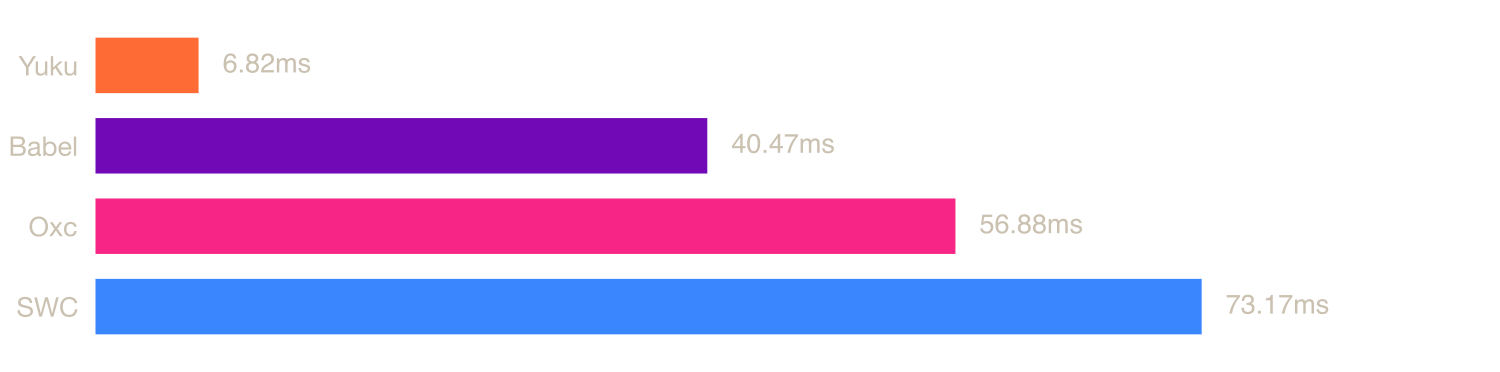
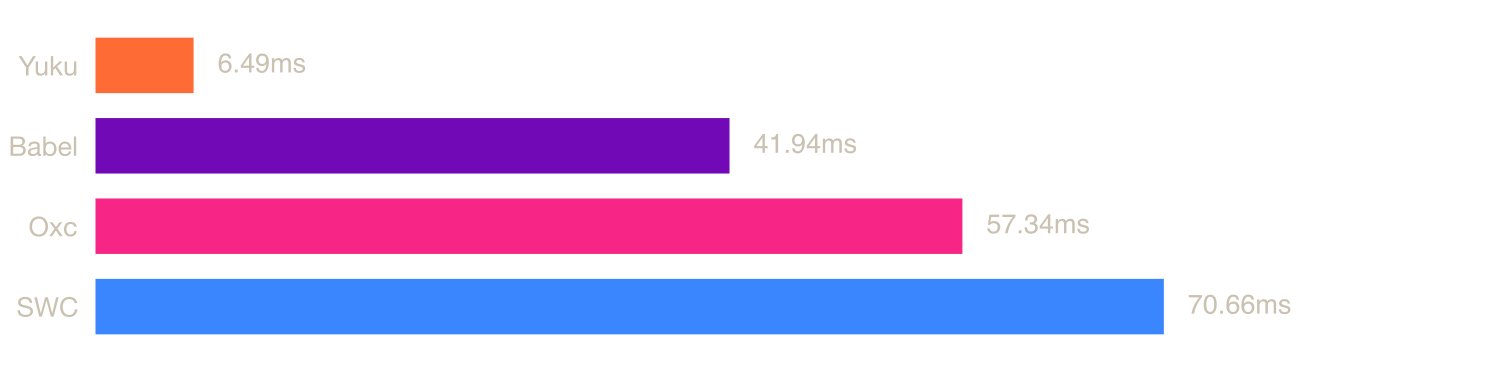
update parsers

diff --git a/scripts/generate-readme.ts b/scripts/generate-readme.ts
@@ -20,12 +20,6 @@ const PARSERS = {
       "A JavaScript compiler and parser used by the Babel toolchain.",
     url: "https://github.com/babel/babel/tree/main/packages/babel-parser",
   },
-  meriyah: {
-    name: "Meriyah",
-    description:
-      "A 100% compliant, self-hosted JavaScript parser with a high focus on both performance and stability.",
-    url: "https://github.com/meriyah/meriyah",
-  },
   oxc: {
     name: "Oxc",
     description:
@@ -49,7 +43,6 @@ const PARSERS = {
 const CHART_COLORS: Record<string, string> = {
   acorn: "#4CC9F0",
   babel: "#7209B7",
-  meriyah: "#06D6A0",
   oxc: "#F72585",
   swc: "#3A86FF",
   yuku: "#FF6B35",
@@ -58,7 +51,6 @@ const CHART_COLORS: Record<string, string> = {
 const NAME_TO_KEY: Record<string, string> = {
   Acorn: "acorn",
   Babel: "babel",
-  Meriyah: "meriyah",
   Oxc: "oxc",
   SWC: "swc",
   Yuku: "yuku",

diff --git a/scripts/bench.ts b/scripts/bench.ts
@@ -3,7 +3,6 @@ import { join } from "node:path";
 import { Bench } from "tinybench";
 import * as acorn from "acorn";
 import * as babel from "@babel/parser";
-import * as meriyah from "meriyah";
 import * as oxc from "oxc-parser";
 import swc from "@swc/core";
 import type { ParseOptions as SwcParseOptions } from "@swc/types";
@@ -41,12 +40,6 @@ async function benchFile(fileKey: string, file: { path: string; lang: Lang }): P
   if (!isTsx) {
     bench.add("Acorn", () => {
       const { body: _ } = acorn.parse(source, { ecmaVersion: "latest", sourceType: "module" });
-    });
-  }
-
-  if (!isTsx) {
-    bench.add("Meriyah", () => {
-      const { body: _ } = meriyah.parse(source, { sourceType: "module", next: true });
     });
   }
 

diff --git a/README.md b/README.md
@@ -21,10 +21,6 @@ A tiny, fast JavaScript parser, written completely in JavaScript.
 
 A JavaScript compiler and parser used by the Babel toolchain.
 
-### [Meriyah](https://github.com/meriyah/meriyah)
-
-A 100% compliant, self-hosted JavaScript parser with a high focus on both performance and stability.
-
 ### [Oxc](https://github.com/oxc-project/oxc)
 
 A high-performance JavaScript and TypeScript parser written in Rust.
@@ -47,12 +43,11 @@ A high-performance & spec-compliant JavaScript/TypeScript compiler written in Zi
 
 | Parser | Mean | Min | Max | Ops/sec | Relative |
 |--------|------|-----|-----|---------|----------|
-| **Yuku** | **32.18 ms** | **29.93 ms** | **43.08 ms** | **31.08 ops/s** | **baseline** |
-| Meriyah | 70.22 ms | 61.17 ms | 104.09 ms | 14.24 ops/s | 2.18× slower |
-| Acorn | 138.86 ms | 124.86 ms | 190.39 ms | 7.20 ops/s | 4.32× slower |
-| Babel | 179.30 ms | 146.71 ms | 231.26 ms | 5.58 ops/s | 5.57× slower |
-| Oxc | 277.43 ms | 262.07 ms | 474.87 ms | 3.60 ops/s | 8.62× slower |
-| SWC | 485.65 ms | 462.44 ms | 574.26 ms | 2.06 ops/s | 15.09× slower |
+| **Yuku** | **32.65 ms** | **30.34 ms** | **49.63 ms** | **30.63 ops/s** | **baseline** |
+| Acorn | 157.73 ms | 136.00 ms | 274.01 ms | 6.34 ops/s | 4.83× slower |
+| Babel | 178.38 ms | 144.63 ms | 226.85 ms | 5.61 ops/s | 5.46× slower |
+| Oxc | 275.56 ms | 260.82 ms | 415.79 ms | 3.63 ops/s | 8.44× slower |
+| SWC | 515.67 ms | 462.70 ms | 712.61 ms | 1.94 ops/s | 15.80× slower |
 
 ### [calcom.tsx](https://raw.githubusercontent.com/yuku-toolchain/parser-benchmark-files/refs/heads/main/calcom.tsx)
 
@@ -62,12 +57,11 @@ A high-performance & spec-compliant JavaScript/TypeScript compiler written in Zi
 
 | Parser | Mean | Min | Max | Ops/sec | Relative |
 |--------|------|-----|-----|---------|----------|
-| **Yuku** | **6.82 ms** | **5.76 ms** | **31.67 ms** | **146.68 ops/s** | **baseline** |
-| Babel | 40.47 ms | 32.98 ms | 49.34 ms | 24.71 ops/s | 5.94× slower |
-| Oxc | 56.88 ms | 54.49 ms | 63.65 ms | 17.58 ops/s | 8.34× slower |
-| SWC | 73.17 ms | 68.06 ms | 117.27 ms | 13.67 ops/s | 10.73× slower |
+| **Yuku** | **6.49 ms** | **5.76 ms** | **49.18 ms** | **154.12 ops/s** | **baseline** |
+| Babel | 41.94 ms | 31.64 ms | 60.07 ms | 23.85 ops/s | 6.46× slower |
+| Oxc | 57.34 ms | 54.36 ms | 66.32 ms | 17.44 ops/s | 8.84× slower |
+| SWC | 70.66 ms | 67.97 ms | 79.14 ms | 14.15 ops/s | 10.89× slower |
 | Acorn | Failed to parse | - | - | - | - |
-| Meriyah | Failed to parse | - | - | - | - |
 
 ### [react.js](https://raw.githubusercontent.com/yuku-toolchain/parser-benchmark-files/refs/heads/main/react.js)
 
@@ -77,12 +71,11 @@ A high-performance & spec-compliant JavaScript/TypeScript compiler written in Zi
 
 | Parser | Mean | Min | Max | Ops/sec | Relative |
 |--------|------|-----|-----|---------|----------|
-| **Yuku** | **0.25 ms** | **0.21 ms** | **6.51 ms** | **4031.08 ops/s** | **baseline** |
-| Meriyah | 0.53 ms | 0.42 ms | 16.97 ms | 1897.67 ops/s | 2.12× slower |
-| Acorn | 1.01 ms | 0.93 ms | 20.67 ms | 990.06 ops/s | 4.07× slower |
-| Oxc | 1.56 ms | 1.50 ms | 7.78 ms | 641.47 ops/s | 6.28× slower |
-| Babel | 1.57 ms | 1.15 ms | 8.15 ms | 636.35 ops/s | 6.33× slower |
-| SWC | 2.90 ms | 2.77 ms | 8.41 ms | 344.84 ops/s | 11.69× slower |
+| **Yuku** | **0.25 ms** | **0.21 ms** | **5.30 ms** | **4070.35 ops/s** | **baseline** |
+| Acorn | 1.05 ms | 0.95 ms | 14.08 ms | 956.94 ops/s | 4.25× slower |
+| Oxc | 1.57 ms | 1.49 ms | 21.45 ms | 635.98 ops/s | 6.40× slower |
+| Babel | 1.62 ms | 1.19 ms | 8.10 ms | 617.37 ops/s | 6.59× slower |
+| SWC | 2.85 ms | 2.75 ms | 7.53 ms | 351.48 ops/s | 11.58× slower |
 
 ## Run Benchmarks
 